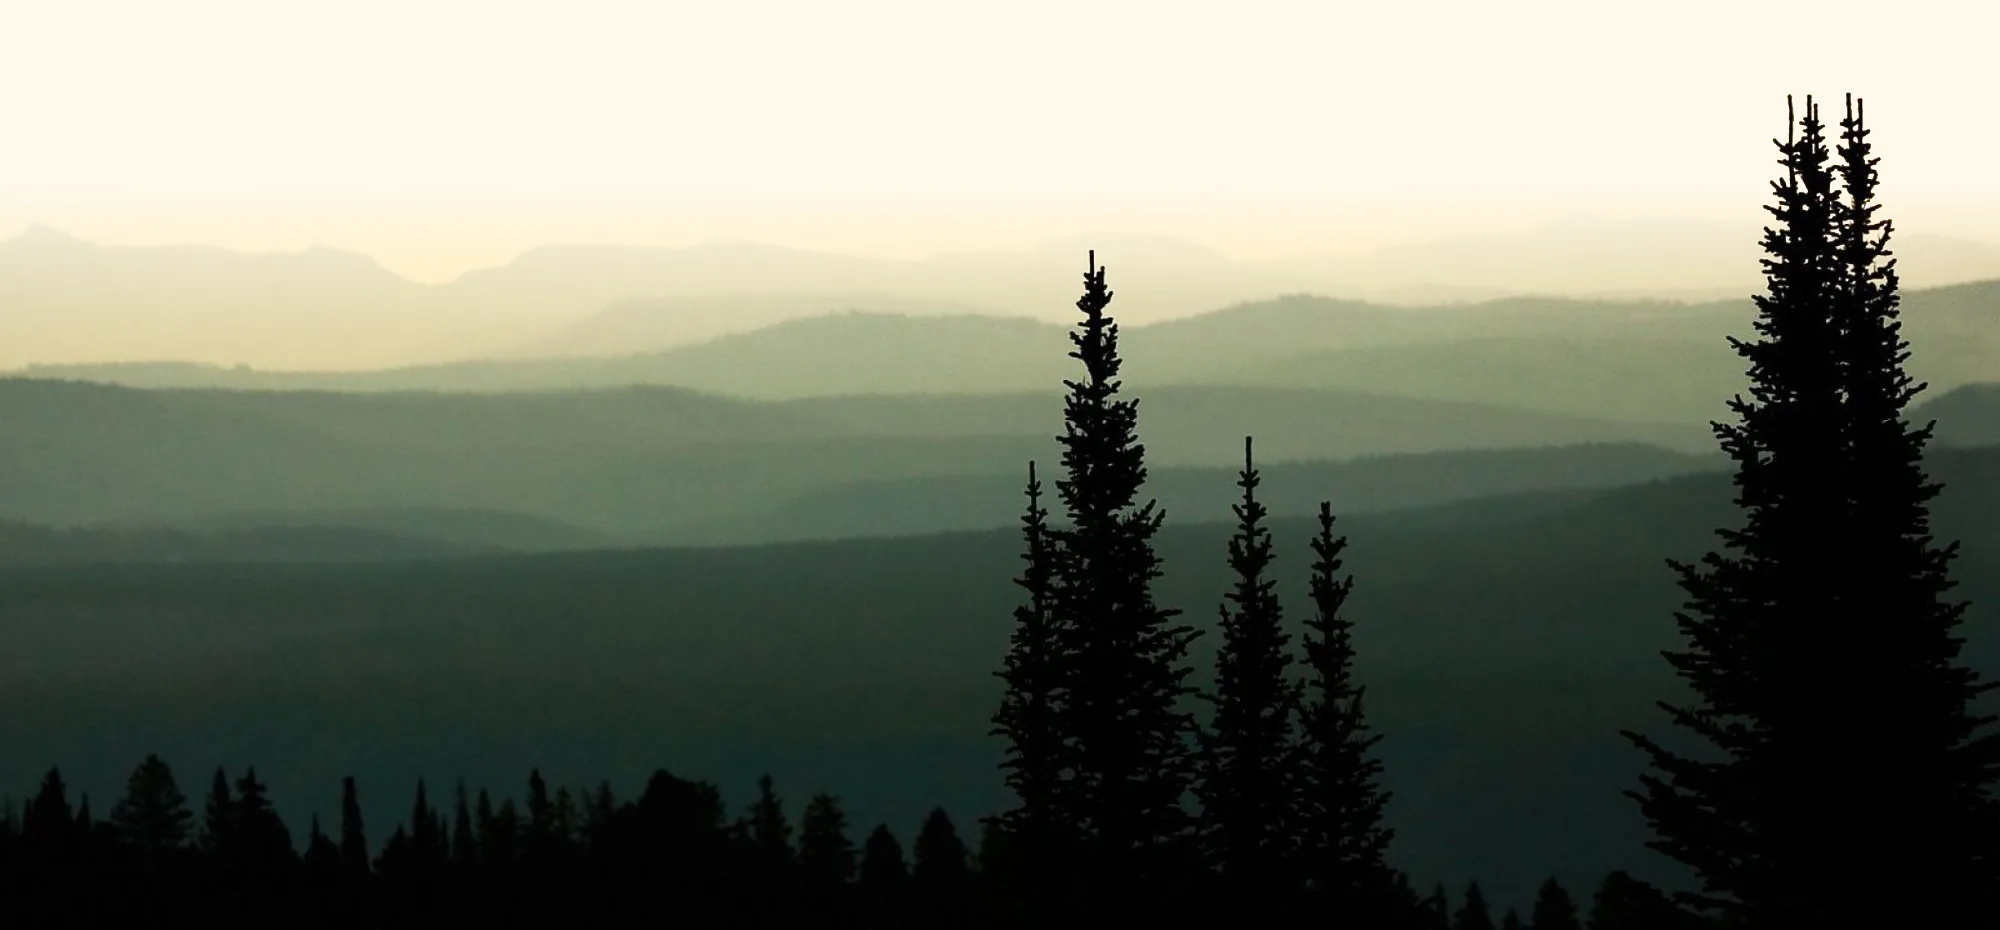
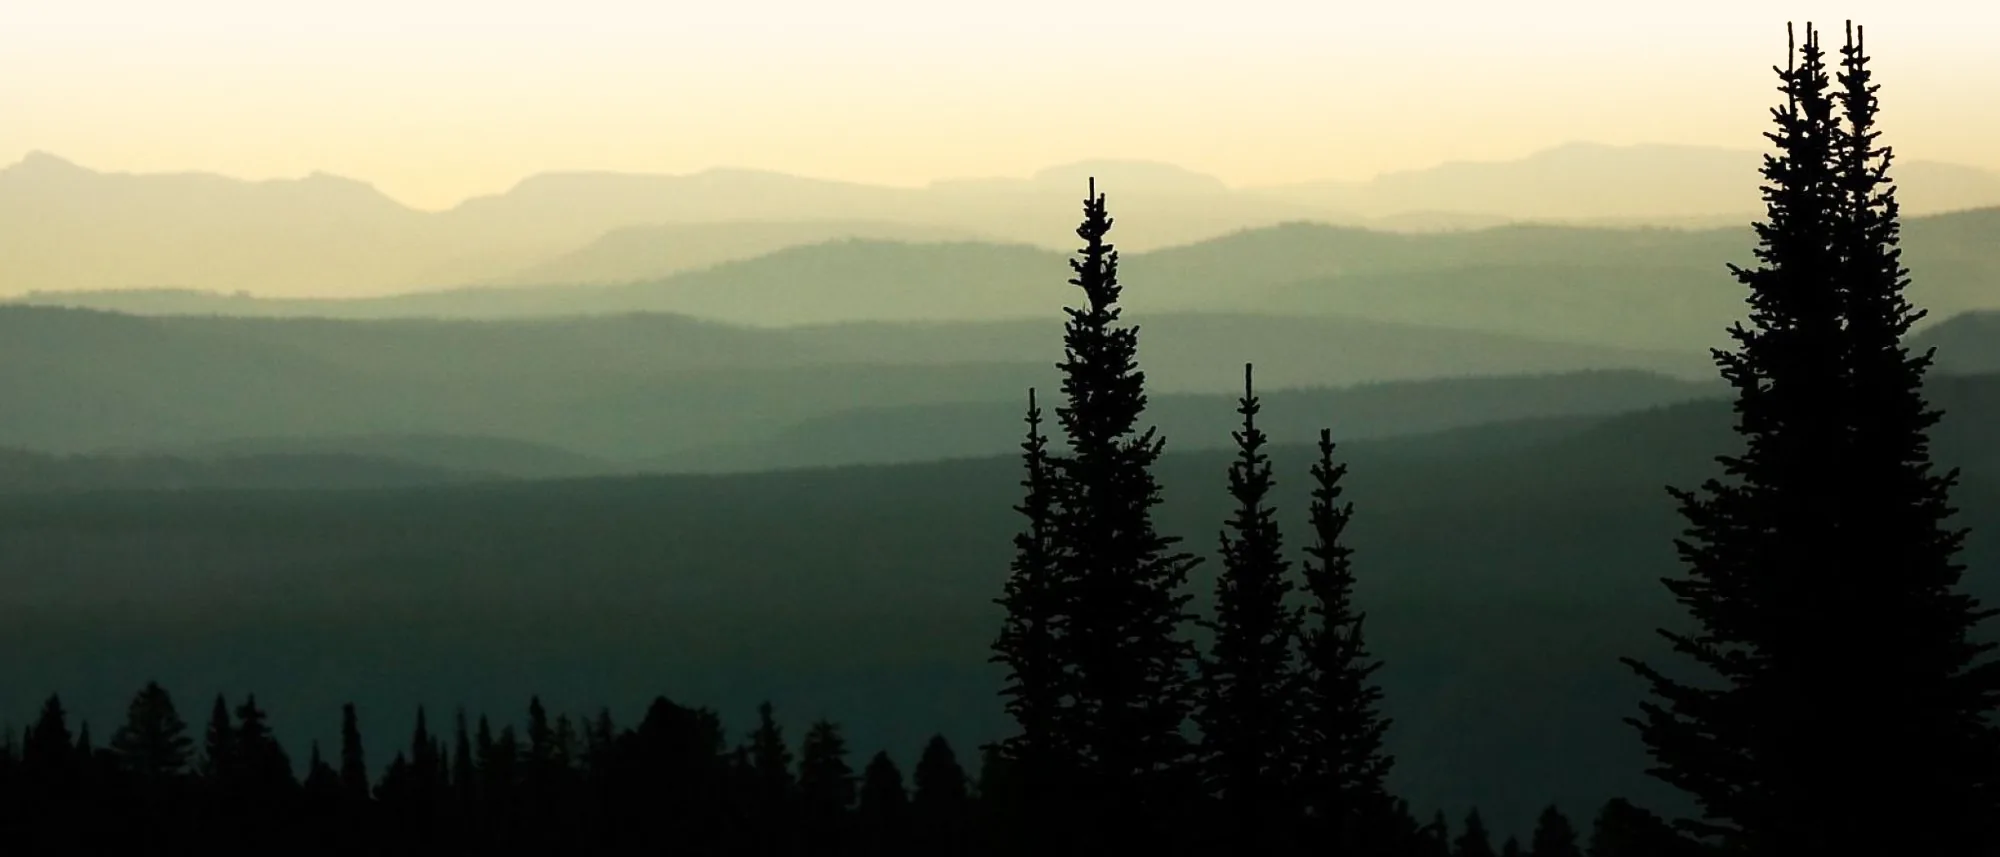
Footer landscape: less empty space above it
Crop the image just above the tallest tree, shorten the page-coloured
fade, show it uncropped at every width, and drop the old 80px spacer.

diff --git a/_sass/_styles.scss b/_sass/_styles.scss
@@ -572,10 +572,6 @@ header.site-header nav {
 }
 
 /* Footer Stuff */
-.push {
-    height: $footerHeight/4 !important;
-}
-
 footer {
     width: 100%;
     font-size: $fsp;
@@ -584,10 +580,9 @@ footer {
 
     // Landscape whose sky fades into the page colour and whose forest runs into the footer
     .landscape {
-        // Image is 2000 x 930 and always spans the full width; on very wide screens the band is
-        // capped and the (page-coloured) sky is cropped from the top, so the black bottom meets the footer
-        aspect-ratio: unquote("2000 / 930");
-        max-height: 744px;
+        // Image is 2000 x 857 and always spans the full width, uncropped: its top edge is the
+        // page colour and its bottom edge the footer black
+        aspect-ratio: unquote("2000 / 857");
         background-color: hsl(42, 100%, 96%); // page colour, matches the image's top edge
         background-image: url(/images/footer-landscape.webp);
         background-position: center bottom;

diff --git a/_includes/footer.html b/_includes/footer.html
@@ -1,4 +1,3 @@
-<div class="push"></div>
   <footer>
     <div class="landscape" aria-hidden="true"></div>
     <div class="footer-inner">
